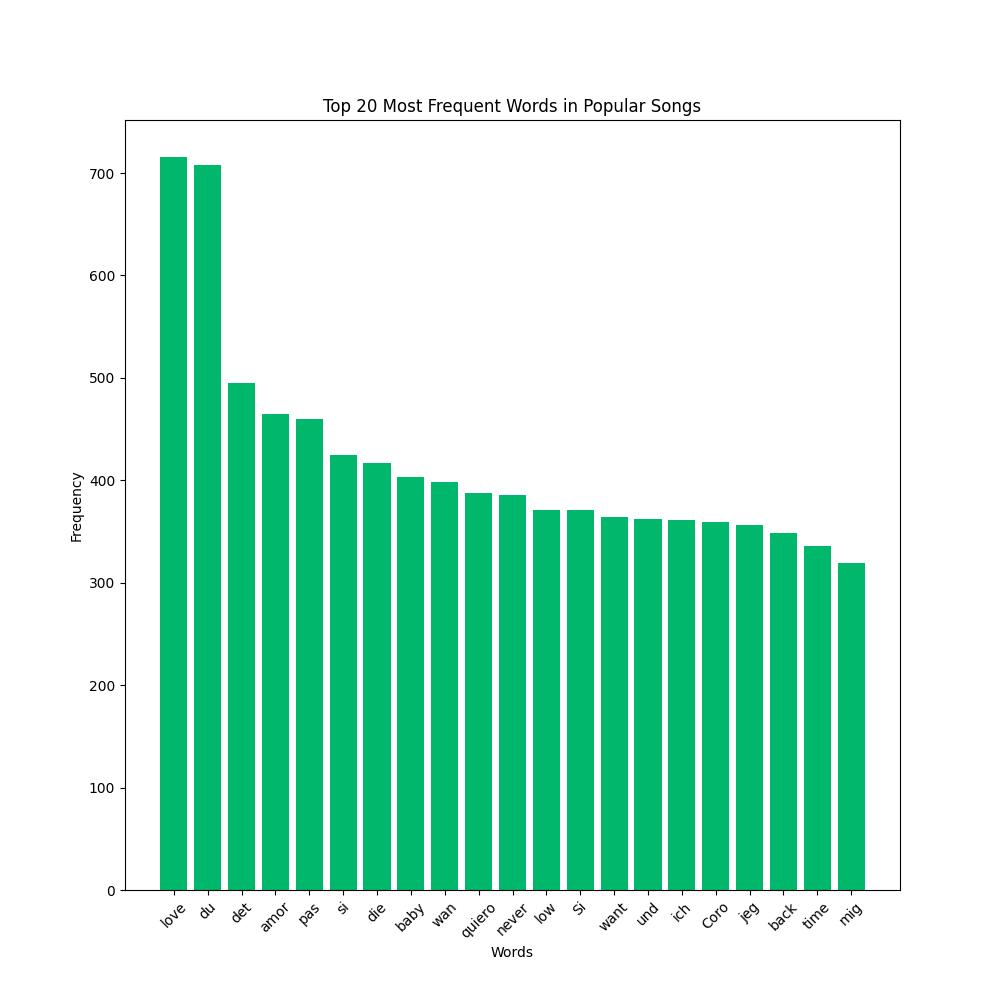
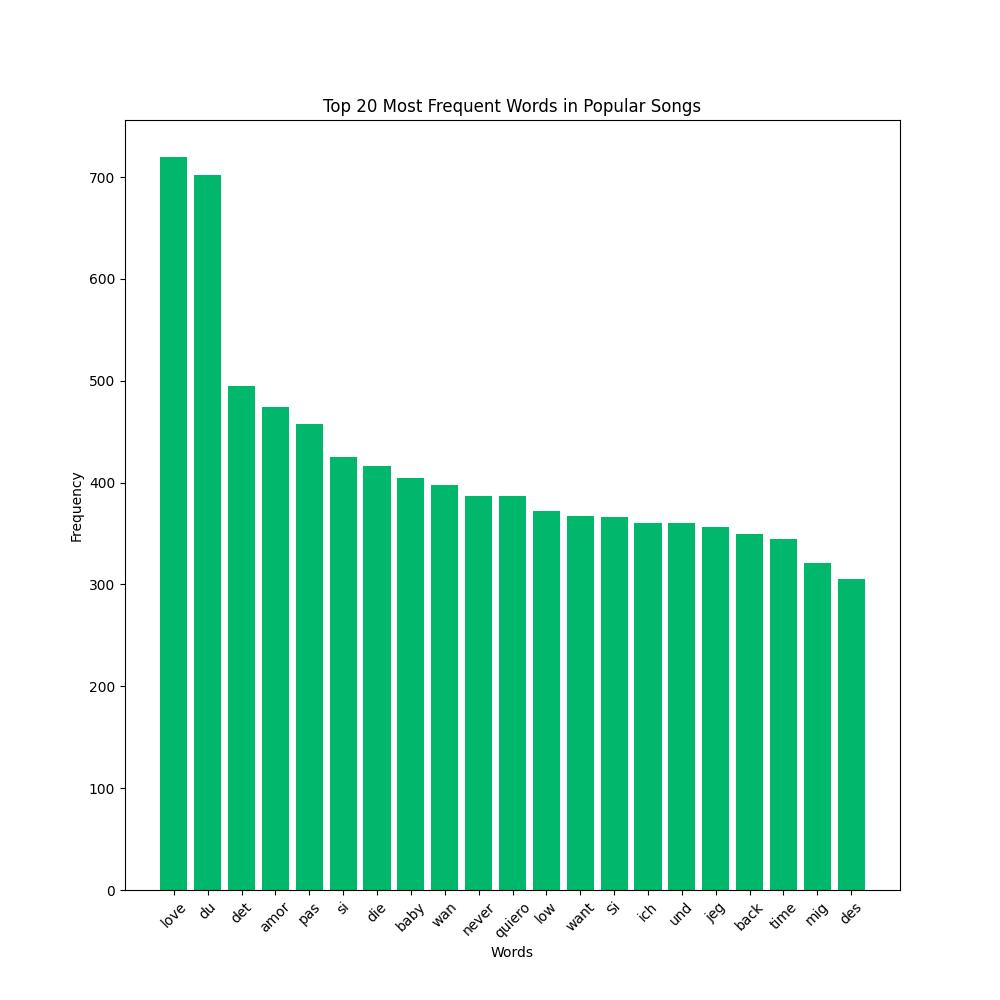
Additional documentation about vocalizations not being removed

diff --git a/functions/processing/prepare_lyrics.py b/functions/processing/prepare_lyrics.py
@@ -22,11 +22,29 @@ def prepare_lyrics(directory):
 
     # Extremely common words that appear every time
     stop_words.update(['like', 'im', 'know', 'might', 'dont', 'got', 'also', 'oh', 'aint', 'youre', 'get',
-                       'go', 'na', 'one'])
+                       'go', 'na', 'one', 'yeah', 'um', 'u', 'oh-oh'])
     
+    # Adding 'oh-oh' moved 'oh oh' down one spot in the word cloud; I think the lemmatizer is condensing all the different variations of 'oh oh' (hyphens, multiple 'o's and 'h's)
+    # into 'oh oh' with a space, explaining why it doesn't show up in the lryics_list of word_cloud.py but appears anyways? This is confusing me so much
+    
+    '''
+    Vocalization Removal Attempt 1:
+    Basic implementation using .update(). Failed to remove any vocalizations.
+    
+    # Vocalizations: This was the first iteration of trying to remove vocalizations.
+    # stop_words.update(['yeah', 'yeah yeah', 'nah nah', 'oh oh', 'la la', 'uh uh', 'na na', 'hey hey', 'eh eh',
+    #                    'ha ha', 'ah ah', 'um', 'ay ay']) # Most of these don't work? Copying output straight from print(wordcloud.words_.keys()) but still doesn't catch a lot
+    '''
+
+    '''
+    Vocalization Removal Attempt 2 (1st Section):
+    Attempted to use Regex more to ensure words actually matched. Failed.
+
     # Vocalizations
-    stop_words.update(['yeah', 'yeah yeah', 'nah nah', 'oh oh', 'la la', 'uh uh', 'na na', 'hey hey', 'eh eh',
-                       'ha ha', 'ah ah', 'um', 'ay ay']) # Most of these don't work? Copying output straight from print(wordcloud.words_.keys()) but still doesn't catch a lot
+    # # Stores the regex for the vocalizations
+    # regex_vocals = ['yeahyeah', 'nahnah', 'ohoh', 'lala', 'uhuh', 'nana', 'heyhey', 'eheh', 'haha', 'ahah', 'ayay']
+    # stop_words.update(regex_vocals)
+    '''
 
     for filename in os.listdir(directory):
         if filename.endswith('.txt'):
@@ -39,10 +57,35 @@ def prepare_lyrics(directory):
                 text = re.sub('\'', '', text)
                 text = re.sub('\d', '', text)
 
+                # print(text) # debug
+
                 tokens = nltk.word_tokenize(text)
 
+                '''
+                Vocalization Removal Attempt 2 (2nd Section):
+                
+                # # Stores vocals to be removed after searching this file to prevent unecessary searches
+                # to_remove = []
+
+                # # For each file (parent loop), check if re.search(vocal, text) finds a match. If it finds a match, adds it to the stop words and to_remove
+                # # For each vocalization in regex_vocals, check if it finds a match in text
+                # for vocalization in regex_vocals:
+
+                #     # Stores the regex search
+                #     vocal_search = re.search(vocalization, text)
+
+                #     # If the vocal matches, update the stop words and add it to to_remove
+                #     if vocal_search:
+                #         stop_words.update(vocal_search.group())
+                #         to_remove.append(vocalization)
+
+                # # Removes each vocalization from regex_values
+                # for vocalization in to_remove:
+                #     regex_vocals.remove(vocalization)
+                '''
+                
                 # Remove stop words
-                tokens = [token for token in tokens if token.lower() not in stop_words and 'Contributors' not in token]
+                tokens = [token for token in tokens if re.sub(' ', '', token.lower()) not in stop_words and 'Contributors' not in token]
 
                 all_lyrics.append((title, tokens))
 

diff --git a/functions/analysis/word_cloud.py b/functions/analysis/word_cloud.py
@@ -5,6 +5,7 @@ from wordcloud import WordCloud
 import pathlib
 import os
 import sys
+import re
 
 # Necessary for import from sister directories
 sys.path.append(os.path.normpath(os.path.join(os.path.dirname(os.path.abspath(__file__)), '..', 'processing')))
@@ -18,7 +19,28 @@ def wordcloudgenerator(lyrics_list):
     # Creates the visualizations directory, if it does not currently exist
     pathlib.Path(file_path + 'visualizations').mkdir(exist_ok=True)
 
+    '''
+    Vocalization Removal Attempt 3 (Incomplete):
+    Attempts to remove vocalizations directly in the word_cloud.py, using both regex and update(). update() failed, and regex has also not been successful for the reasons described
+    on lines 27-28 in prepare_lyrics.py
+
+    # Manually removes vocalizations since adding them to stop words did not work
+    # regex_vocals = ['yeah yeah', 'nah nah', 'oh oh', 'la la', 'uh uh', 'na na', 'hey hey', 'eh eh', 'ha ha', 'ah ah', 'ay ay']
+    # for vocal in regex_vocals:
+    #     lyrics_list.remove(vocal)
+    '''
+
     alltext = " ".join(lyrics_list)
+
+    # print('oh oh' in lyrics_list) # debug
+    # print(re.search('oh\soh', alltext)) #debug
+    # print('oh-oh' in lyrics_list) # debug
+    # print(re.search('oh-oh', alltext)) #debug
+    
+    #????????????????????????
+    # 'oh oh' isn't in lyrics_list but 'oh-oh' is, yet both forms show up in alltext? And then when you add 'oh-oh' to the stop words it still appears in alltext???
+    # alltext drwas directly from lyrics_list; if those words aren't in it, how the hell are they showing up in alltext??
+    #????????????????????????
 
     wordcloud = WordCloud(width=1600, height=800).generate(alltext)
     plt.figure(figsize=(20,10), facecolor='k')
@@ -27,8 +49,13 @@ def wordcloudgenerator(lyrics_list):
     plt.tight_layout(pad=0)
     plt.savefig('visualizations/wordcloud.jpg', facecolor='k', bbox_inches='tight')
 
-    # Prints the words in the wordcloud to add to stop words
-    print(wordcloud.words_.keys()) #debug
+    # Prints the words in the wordcloud to add to stop words (debug)
+    # print(wordcloud.words_.keys()) #debug
+
+    # for key in wordcloud.words_: #debug
+    #     print(key == 'oh oh')
+    #     print(lyrics_list.index(key))
+    #     break
 
 all_lyrics = megalist(prepare_lyrics('lyrics'))
 

diff --git a/functions/analysis/top20_freq.py b/functions/analysis/top20_freq.py
@@ -85,14 +85,14 @@ def top20_words_frequency(num_letters, directory):
 # ONLY RUN ONE OF THESE LOOPS AT A TIME TO AVOID LOSING DATA
 ############################################################
 
-# for i in range(2017, 2022):
-#     top20_words_frequency(0, str(i))
-#     top20_words_frequency(4, str(i))
-#     top20_words_frequency(5, str(i))
-#     print('Completed {year}'.format(year=i))
+for i in range(2017, 2022):
+    top20_words_frequency(0, str(i))
+    top20_words_frequency(4, str(i))
+    top20_words_frequency(5, str(i))
+    print('Completed {year}'.format(year=i))
 
-for i in range(15):
-    top20_words_frequency(i, 'lyrics')
-    print('Completed i = {i}'.format(i=i))
+# for i in range(15):
+#     top20_words_frequency(i, 'lyrics')
+#     print('Completed i = {i}'.format(i=i))
 
 print('\nDone!\n')

diff --git a/README.md b/README.md
@@ -100,7 +100,7 @@ This project uses data collected and published on [Kaggle](https://www.kaggle.co
 
 - **Solved 12/13/2023:** ~~Add a list of cleaned songs to avoid removing more lyrics then necessary on subsequent runs of `clean_lyrics.py`~~
 
-- **ADDED 12/12/2023:** Fix some stop words not being detected (vocalizations)
+- **Added 12/12/2023, In Progress 12/14/2023:** Fix some stop words not being detected (vocalizations)
 
 
 ## File Hierarchy
